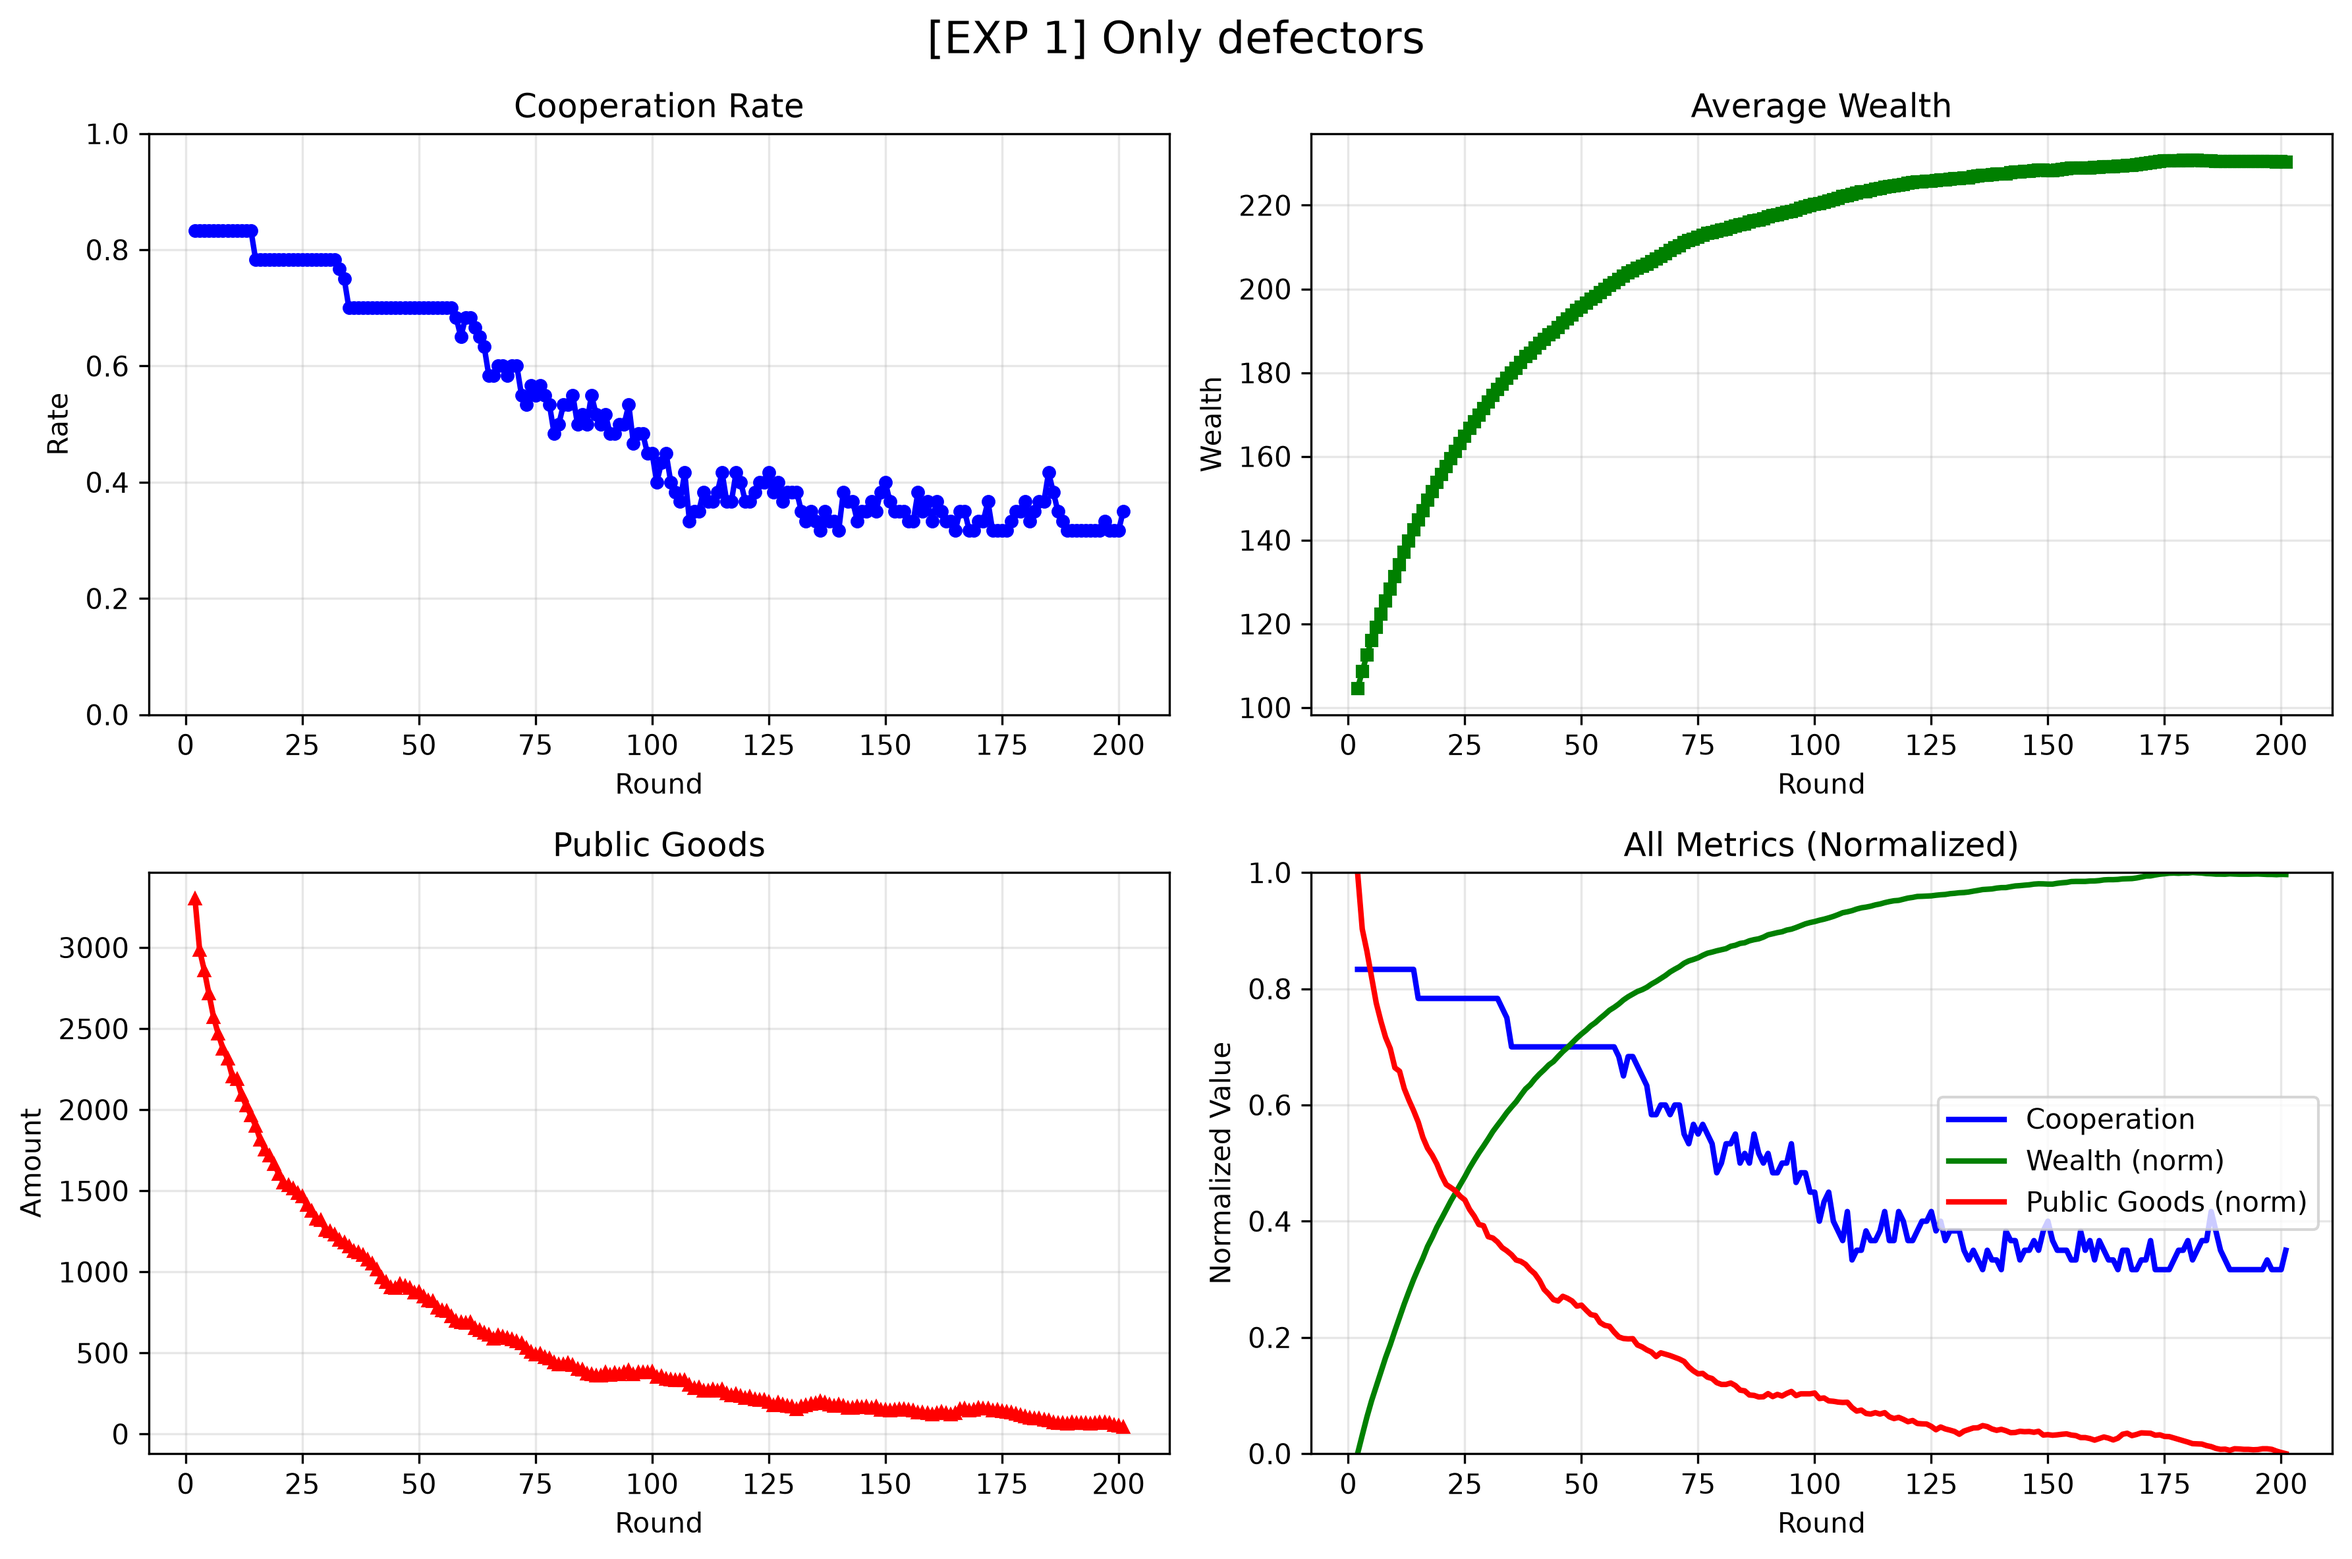
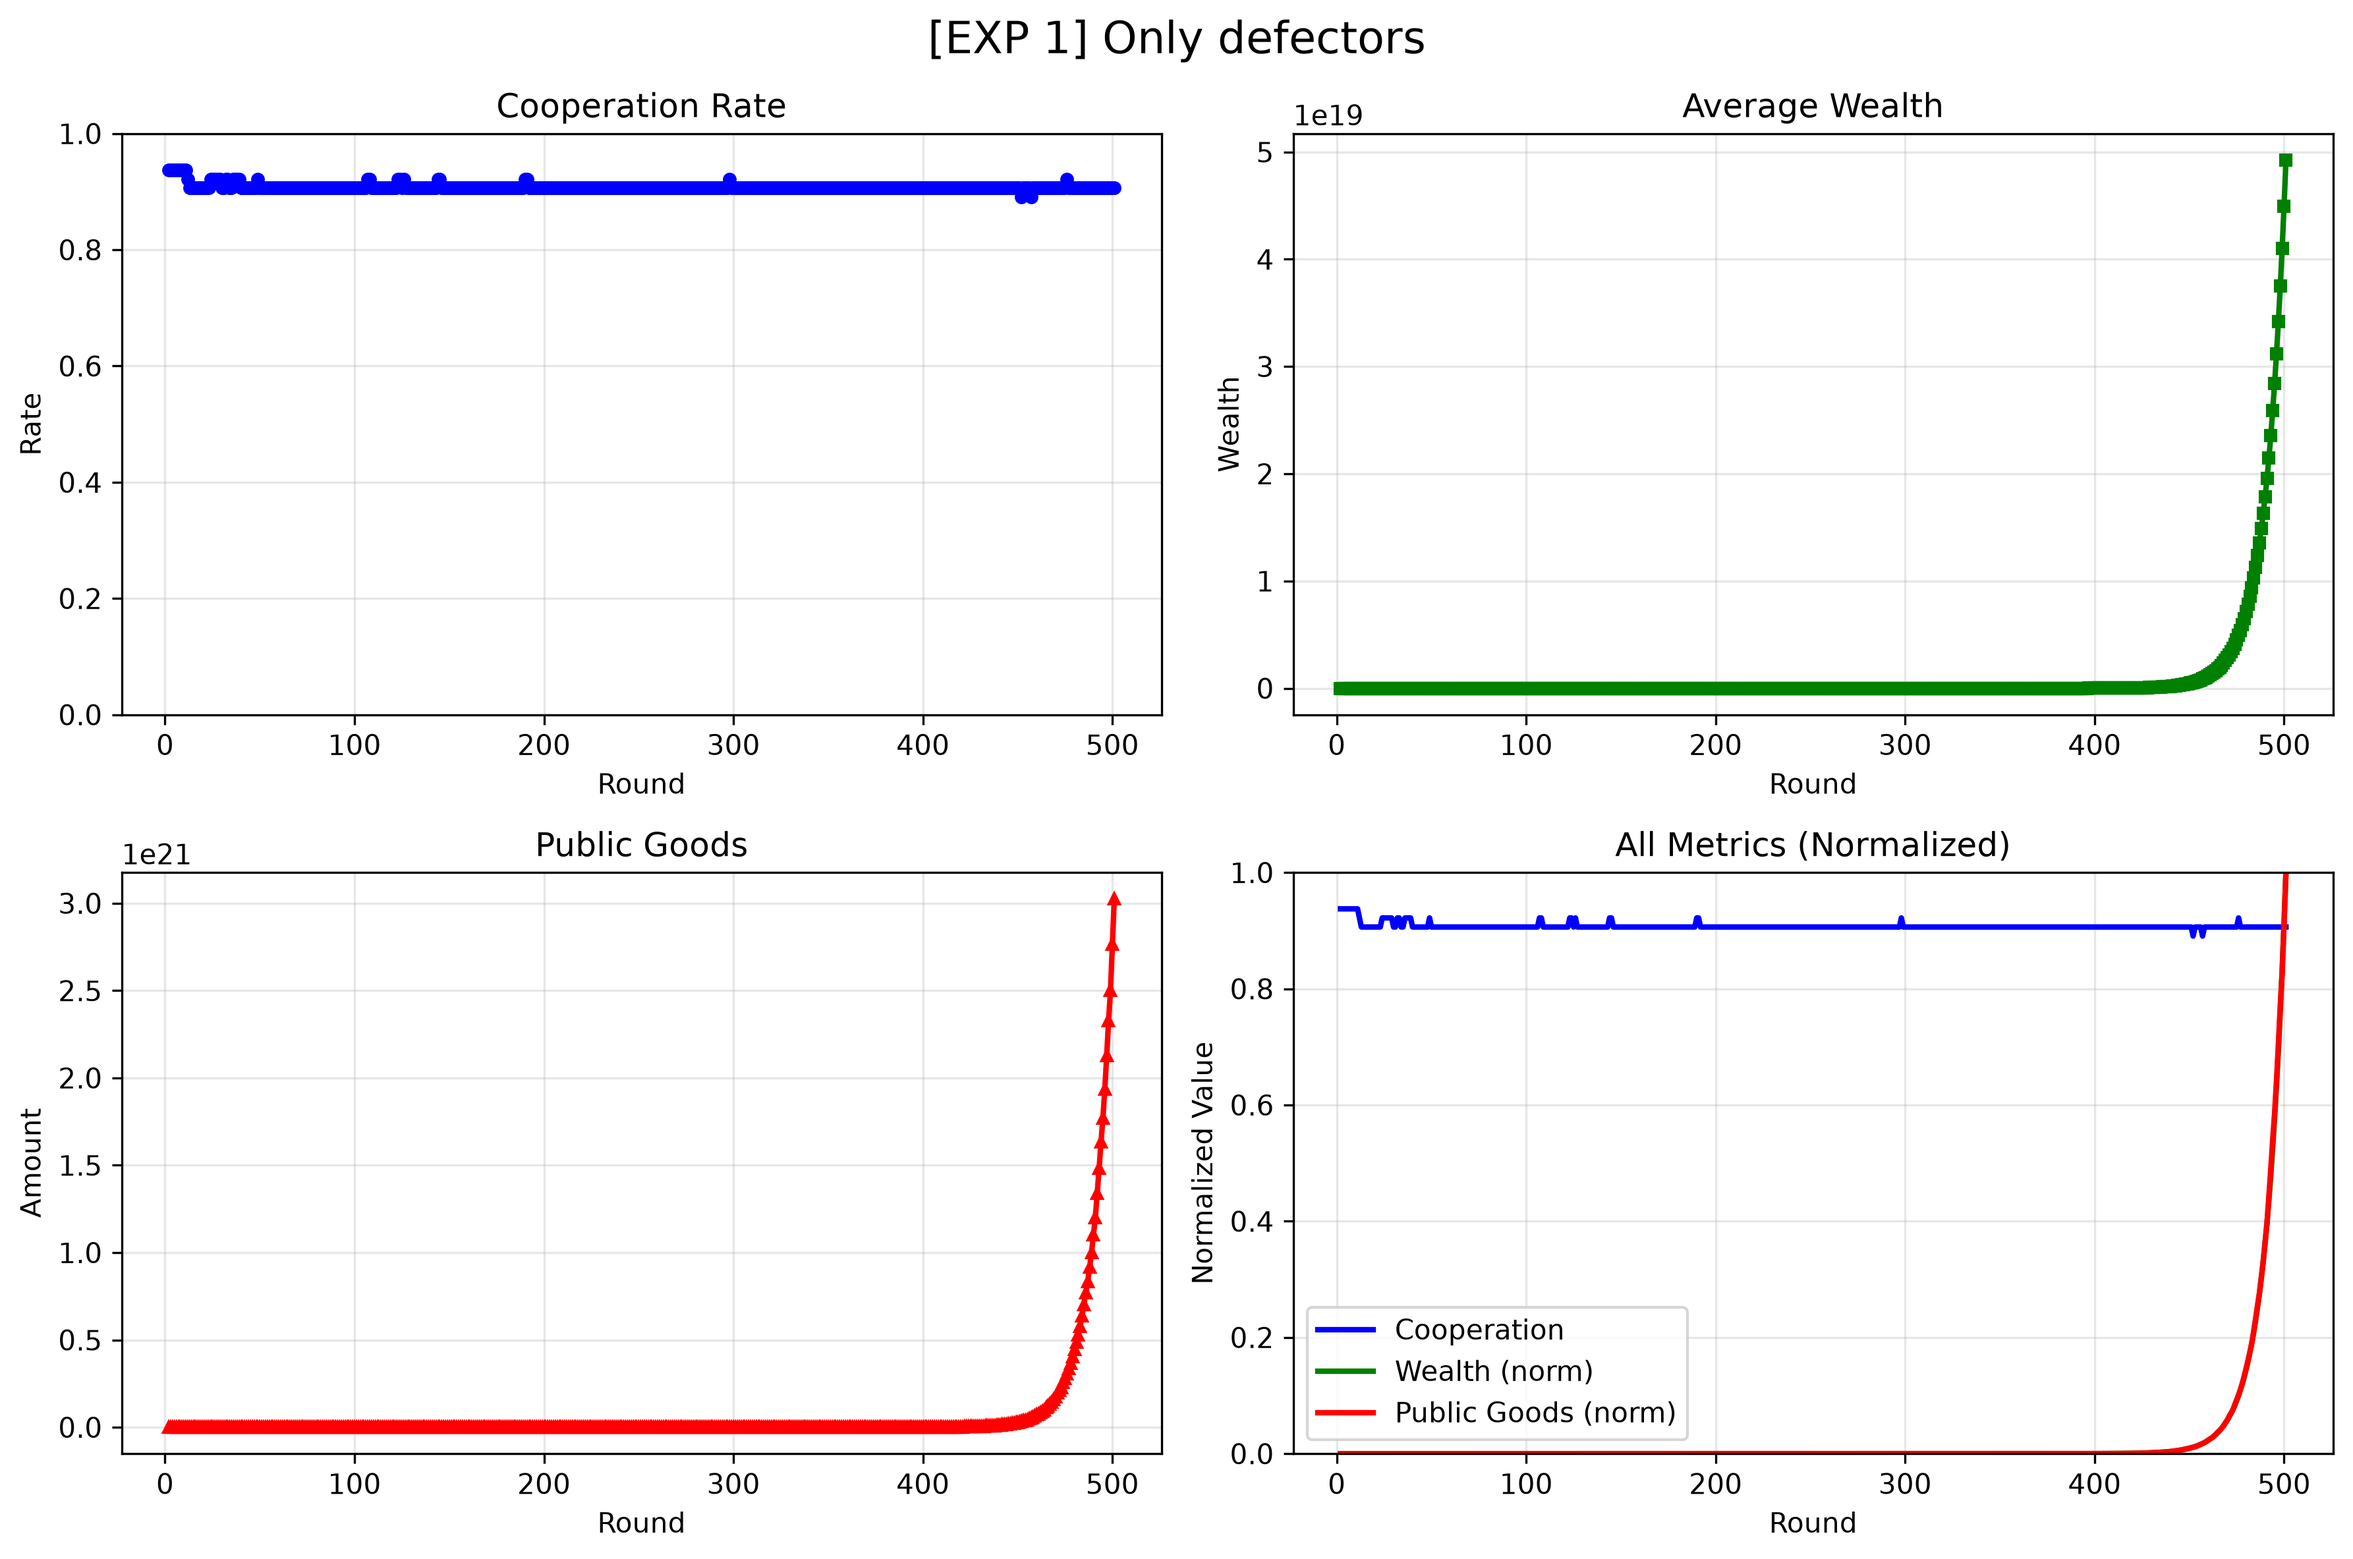
Agents cannot go back to the same neibourhood (13/06)

diff --git a/dynamics/council.py b/dynamics/council.py
@@ -62,6 +62,7 @@ class Council:
         for agent in to_remove:
             self.neighborhood.remove_agent(agent)
             self.neighborhood.world.expelled_agents.append(agent)
+            self.neighborhood.world.expelled_from[agent] = self.neighborhood.identifier
 
         self.last_expelled_agents = to_remove
         
@@ -83,6 +84,7 @@ class Council:
         eligible_agents = [
             agent for agent in expelled_agents
             if agent not in self.last_expelled_agents
+               and self.neighborhood.world.expelled_from.get(agent) != self.neighborhood.identifier
         ]
 
         if not eligible_agents:

diff --git a/experiment_2.py b/experiment_2.py
@@ -1,20 +1,19 @@
 from game.public_goods_game import PublicGoodsGame
 
 # set the params of the experiment
-turns = 200
+turns = 500
 width = 8
 height = 8
-num_neighbourhoods = 5
+num_neighbourhoods = 10
 endowment = 100
 factor = 1.1
-councils = False
+councils = True
 mutation_enabled = True
 show_map = True
 
 # first condition: just defectors
-strategies = {"defect": 10,
-              "adaptive": 40,
-              "coop": 10}
+strategies = {"defect": 4,
+              "adaptive": 60}
 
 pgg = PublicGoodsGame.run_simulation(turns=turns,
                                       width=width,

diff --git a/dynamics/world.py b/dynamics/world.py
@@ -28,6 +28,9 @@ class World:
             for _ in range(height)
         ]
 
+        # keeps info who was expelled from where
+        self.expelled_from = {}
+
         # compute neighborhoods
         self.neighborhoods = {}
         for i in range(1, num_neighborhoods + 1):
